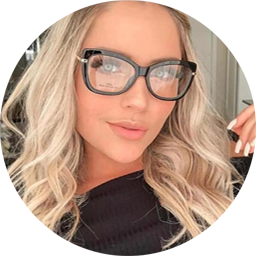
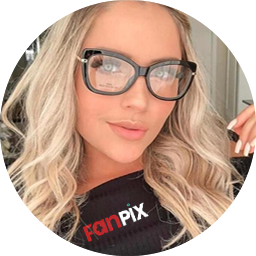
Mudou foto do bot

diff --git a/bot.js b/bot.js
@@ -17,7 +17,6 @@ function ola(){
     setTimeout(addQuestionButtonToChat, 4000, "Sim. Eu tenho!", iHaveTelegram, textElement);
     setTimeout(addQuestionButtonToChat, 4000, "Não Tenho", iDontHaveTelegram, textElement);
 }
-
 function iHaveTelegram(){
     addUserTextInChat("Sim. Eu tenho!");
     document.getElementById("question").remove();
@@ -73,7 +72,7 @@ function openTelegram(){
 function addVideoToChat(videoURL){
     var avatar = document.createElement('img');
     avatar.setAttribute("id", "avatar");
-    avatar.setAttribute("src", "https://i.imgur.com/J40oxC0.png");
+    avatar.setAttribute("src", "bot.png");
 
     var textElement = document.createElement('div');
     textElement.setAttribute("id", "chat-text");
